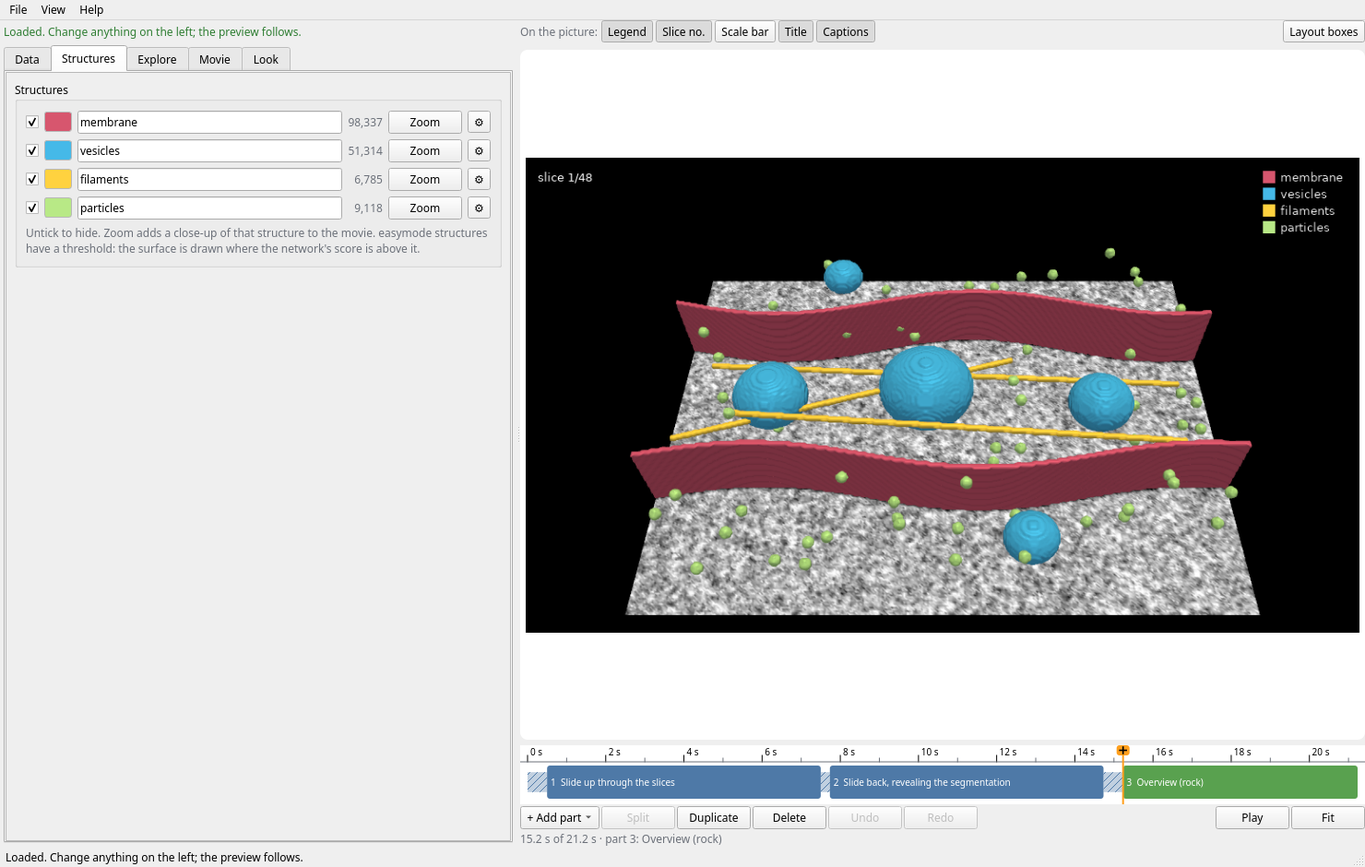
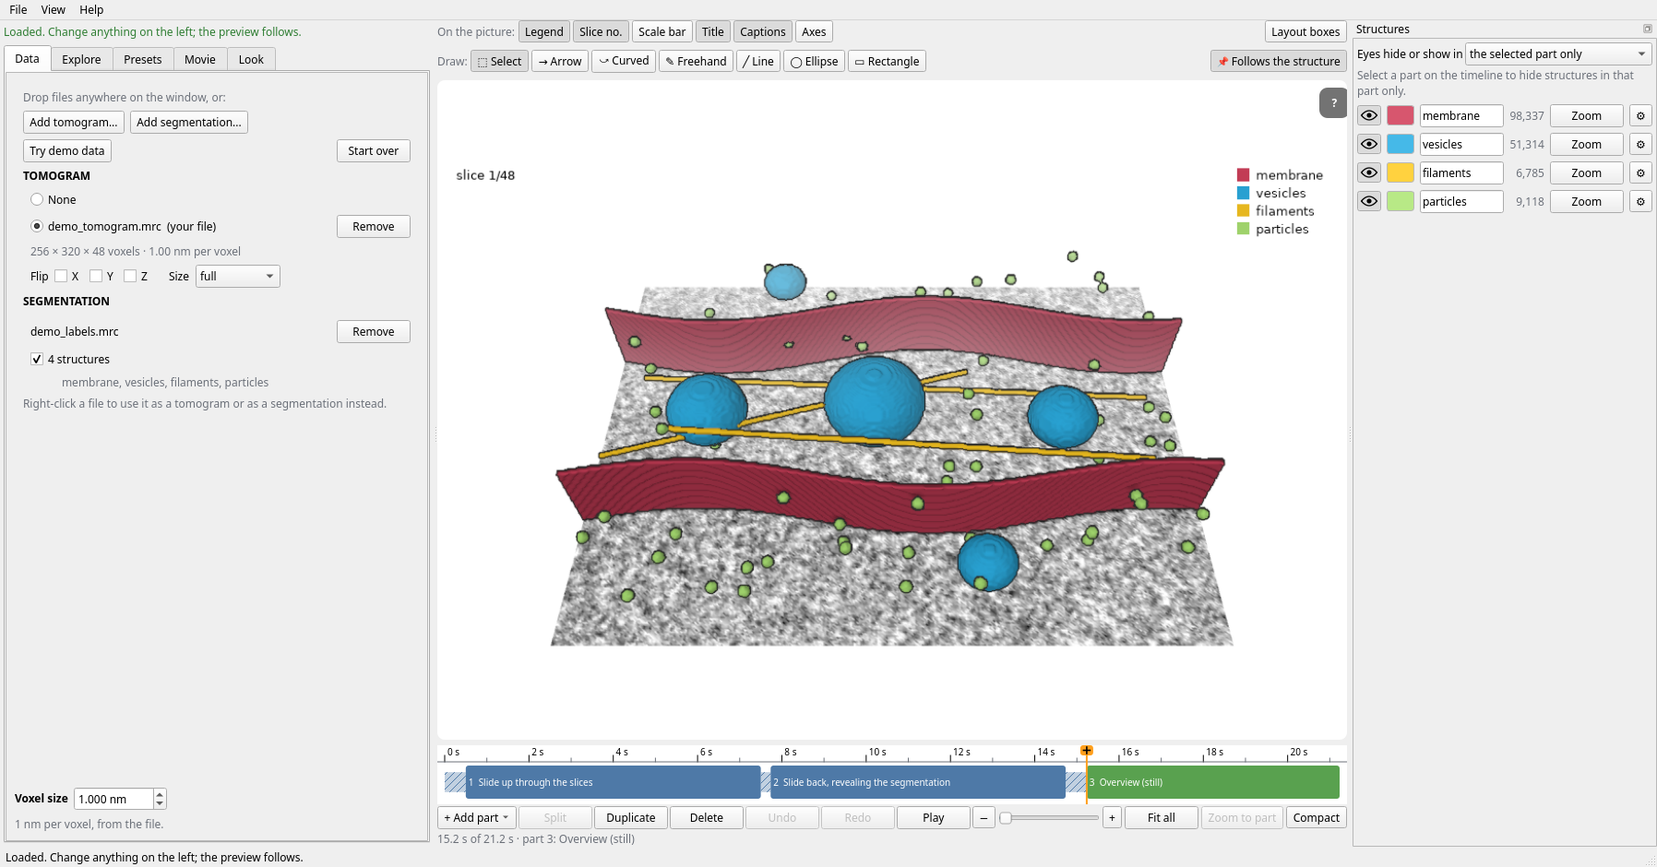
3.6.0: README, change log and screenshots for this release
Version 3.6.0. README: Structures panel with eyes, Size and surface cache, typed numbers, rotation axis and centre,
overview turn settings, Blur the background, calm paths and Edit from above, orientation arrows and coloured
caption box, drawing arrows, separate layer movies and merging, flat membranes (a model), Help > Performance.
New screenshots from the demo data (and a made-up bumpy membrane).

diff --git a/tomoreveal/common.py b/tomoreveal/common.py
@@ -1,7 +1,7 @@
 """Shared constants and small helpers."""
 
 
-__version__ = "3.5.0"
+__version__ = "3.6.0"
 
 
 ZMAGIC = b"\x28\xb5\x2f\xfd"

diff --git a/README.md b/README.md
@@ -12,7 +12,7 @@ TomoReveal reads these segmentations:
 
 The application is read-only for your data. It does not edit, rename or move tomograms, sessions or segmentations. It writes only the movies, in the folder that you select. It runs on your computer and does not send data to the internet.
 
-This is version 3.5.0. The [change log](CHANGELOG.md) lists the changes in each release.
+This is version 3.6.0. The [change log](CHANGELOG.md) lists the changes in each release.
 
 ## Supported platforms
 
@@ -137,7 +137,9 @@ Drop the files on the window, or use the buttons in the **Data** tab. You can dr
 
 TomoReveal recognises each dropped file by its content. To choose yourself, use **Add tomogram...** (the file is always used as the tomogram) or **Add segmentation...** (a session, a label volume or easymode files; never used as the tomogram). If a dropped file was recognised wrongly, right-click it in the Data tab and choose **Use as tomogram** or **Use as segmentation**.
 
-Large tomograms and sessions can take a minute to load. A line in the Data tab shows the progress.
+Large tomograms and sessions can take a minute to load. The line at the bottom says what is happening: each file with its size and time, then each surface ("building surfaces 3/15: Capsid"), and a note when a file is on a slow drive. Surfaces are kept on disk in TomoReveal's own folder (up to 5 GB, never next to your data), so opening the same data again is much faster.
+
+**Size: full / half / quarter** (Data tab) shows the tomogram and segmentation at half or a quarter size in each direction: about 8 or 64 times lighter and faster, for very large files. Arrows, frames, slice numbers and close-ups move along, and the choice is saved with the project.
 
 ### 2. Choose the tomogram and the segmentations
 
@@ -151,7 +153,7 @@ Large tomograms and sessions can take a minute to load. A line in the Data tab s
 
 Sometimes the image is changed during the import into Dragonfly: it is cropped, binned, or an axis is flipped. Then the tomogram file and the segmentation are not on the same grid. TomoReveal compares your file with Dragonfly's copy and finds the crop, the binning and the flips. It then puts your file on the grid of the segmentation. A line below the list tells you what it found, for example "cropped to x 60-767, y 150-1315, z 6-73". easymode files that were made from the original tomogram file are put on the Dragonfly grid in the same way. If the file is not the image that was imported, TomoReveal tells you and shows Dragonfly's copy.
 
-**SEGMENTATION** lists every multi-ROI and ROI of each session, and each label or easymode file, with a tick box. Next to each one you see how many structures it has and, in grey, their names, so that you can see what you switch on. You can switch on several at the same time; their structures are listed in groups in the Structures tab. For each session, TomoReveal switches on the one that looks like the final segmentation. Change it with one click if it chose wrongly.
+**SEGMENTATION** lists every multi-ROI and ROI of each session, and each label or easymode file, with a tick box. Next to each one you see how many structures it has and, in grey, their names, so that you can see what you switch on. You can switch on several at the same time; their structures are listed in groups in the Structures panel. For each session, TomoReveal switches on the one that looks like the final segmentation. Change it with one click if it chose wrongly.
 
 - A segmentation on another grid than the tomogram is greyed out, with the reason, for example "511 × 720 × 250 voxels, but the tomogram is 512 × 720 × 250".
 - The single-slice previews that Dragonfly's Segmentation Wizard leaves in a session, and Dragonfly's undo copies, are not listed. A grey line says how many were left out.
@@ -159,9 +161,9 @@ Sometimes the image is changed during the import into Dragonfly: it is cropped, 
 
 ### 3. Set the structures
 
-The **Structures** tab lists the structures with the names and colours that are saved in the Dragonfly session (or in the `.json` file next to a label volume). For each structure you can:
+The **Structures** panel on the right of the preview lists the structures with the names and colours that are saved in the Dragonfly session (or in the `.json` file next to a label volume). For each structure you can:
 
-- remove the tick to hide it.
+- click the **eye** to hide or show it. **Eyes hide or show in: the selected part only** (the default) hides it only in the part selected on the timeline: it fades out and back in at the part's edges, and an orange dot marks the eye. Switch to **the whole movie** to hide it everywhere. Right-click a structure in the preview ▸ **Hide … in this part** does the same.
 - click the coloured box to change the colour.
 - change the name. The legend uses this name.
 - click the **⚙** button to open the structure's settings:
@@ -170,11 +172,16 @@ The **Structures** tab lists the structures with the names and colours that are 
   - **Remove specks smaller than** a number of voxels: leaves out small separate bits of a noisy segmentation.
   - **Smoothing**: how round the surface is; 0 shows the raw voxel steps.
   - **Smoother surface**: off, a little, more or much takes away the bumps a segmentation leaves. **Flat sheet, even thickness** draws a membrane as a smooth sheet of the thickness measured in the segmentation (or one you type), with holes and breaks up to the **Fill gaps** size bridged. It is a model of the membrane, not the segmentation as it is: use the other levels to show what was segmented. **Flatness: less** keeps membranes that run 2 to 4 voxels apart as two sheets.
+  - **Detail**: full, or half (about 4 times fewer triangles, so large structures draw much faster).
   - **Style**: Normal, Cartoon (flat colour with dark outlines), Dots, or Glossy (shiny, metallic or glass). **Apply to all** gives every structure this style.
 
 **All structures** in the Look tab fades every structure together, for a "ghost" look.
 
-Structures that are hidden in Dragonfly, and the background, are listed in grey with the tick removed. Tick them to show them anyway. A structure that has no name in the session is shown as "label 3 (no name in the session)".
+![Filaments hidden in the overview only](docs/images/22-structures-panel.png)
+
+![A bumpy membrane with holes: as segmented, "much", and a flat sheet](docs/images/26-flat-membrane.png)
+
+Structures that are hidden in Dragonfly, and the background, are listed in grey with the eye closed. Click the eye to show them anyway. A structure that has no name in the session is shown as "label 3 (no name in the session)".
 
 ### Look through the slices
 
@@ -186,7 +193,7 @@ The **Explore** tab is for looking at the data slice by slice. It does not chang
 - **2D slice** shows the slice flat, with the segmentation filled, as outlines, or off. **Overlay opacity** sets how strongly the colours cover the slice. Ctrl + mouse wheel zooms, dragging moves the image, and a double-click shows the whole slice again.
 - **3D at this slice** shows the 3D view with the slice at this position, and the structures above the slice, all structures, or none.
 - The line below the image shows the slice number, the depth in nm, and under the mouse the position, the grey value and the name of the structure.
-- Colours and which structures are shown come from the Structures tab. The clip box is drawn as a dashed rectangle, and slices outside the movie's slice range are dimmed.
+- Colours and which structures are shown come from the Structures panel. The clip box is drawn as a dashed rectangle, and slices outside the movie's slice range are dimmed.
 
 Three buttons pass what you found to the movie: **Start the slice sweep here**, **End the slice sweep here**, and **Add a close-up of** the structure under the mouse.
 
@@ -206,6 +213,8 @@ In the **Movie** tab, set the **main view**: click a view button, or use the **T
 | + and −, F, Home | Zoom in and out, fit everything, back to the main view |
 | 1, 3, 7 | Front, side, top view |
 
+Every bar has a number box beside it: type 30 for Tilt and press Enter (Esc cancels, the arrow keys step, Shift ten at a time). Right-click a structure ▸ **Rotate around this** makes it the centre of the turns; **View ▸ Show rotation axis** draws the axis in the preview (never in the movie).
+
 The **?** in the corner of the preview lists these. **View ▸ Moving around in the preview** can swap the left and right buttons or turn the mouse wheel the other way.
 
 ### 5. Clip the tomogram
@@ -214,7 +223,7 @@ Use **Clip** to keep only a part of the tomogram, as with the clip box in Dragon
 
 ![Clip bars keep only a part of the tomogram](docs/images/03-clip.png)
 
-**Fit the view to the kept part** moves the camera closer. Remove the tick to keep the camera where it is. **Reset** shows the full tomogram again.
+Each bar also has **from** and **to** boxes: type a slice number, or a length such as "120 nm". **Fit the view to the kept part** moves the camera closer. Remove the tick to keep the camera where it is. **Reset** shows the full tomogram again.
 
 ### 6. Build the movie on the timeline
 
@@ -270,13 +279,13 @@ The **Movie** tab lists the same parts, one line each. Click a line to open its 
 | Part | Settings |
 |---|---|
 | Slide | From (first slice, last slice, where the slice is, a slice number), To, Structures (hidden, above the slice, all, leave as they are), Pause before, Pause after |
-| Overview | Camera movement (rock, full spin, still), Rock angle, View (main view or own view) |
+| Overview | Camera movement (rock, full spin, still), Rock angle, **Turn around** (Z, X, Y, or the screen's up-down line), **Centre of the turn** (the middle of what is shown, so a clipped tomogram turns around itself), **Keep the size steady**, **Start gently**, View (main view or own view) |
 | Close-up | Structure and Object (or Objects in focus), Other structures (colour and opacity), Camera movement (orbit, rock, wiggle, still), Camera push-in, Highlight, Object effect, Zoom, Tilt, Vignette |
 | Hold | only the common settings |
 | Card | Background, text and picture blocks, Fades (see [Title and end cards](#9-title-and-end-cards)) |
 | Camera path | What the camera follows, or its points; Camera, Looks, Other structures (see [Camera paths](#camera-paths)) |
 
-Every part also has **On the picture**: show or hide the legend, slice number and scale bar during this part only.
+Each line has a stripe in its part's timeline colour (blue slides, green overviews, red close-ups, purple cards, orange camera paths, grey holds). Every part also has **On the picture**: show or hide the legend, slice number and scale bar during this part only.
 
 **Transitions.** Each part's settings end with "Transition from part 3 to part 4":
 
@@ -293,7 +302,7 @@ Slides, spins and orbits also have **Slow down at the end**.
 
 #### Close-ups
 
-- Click **Zoom** next to a structure in the Structures tab, or use **+ Add part > Close-up of**, to add a close-up of all of that structure.
+- Click **Zoom** next to a structure in the Structures panel, or use **+ Add part > Close-up of**, to add a close-up of all of that structure.
 - Click **+ Click a structure in the preview** (or choose "an object I click in the preview"), then click one object (one vesicle, one filament) to add a close-up of that object only.
 - To change what a close-up shows, open it and choose another **Structure** or **Object** from the lists. The caption follows the structure unless you typed your own.
 - A close-up of a structure that you switched off in the Data tab stays in the list, marked "structure not loaded", and is left out of the movie until the structure is back.
@@ -301,7 +310,8 @@ Slides, spins and orbits also have **Slow down at the end**.
 - **A close-up of a frame you draw**: **Frame a region...** in a close-up's settings (or **+ Add part > Close-up of > a region I draw in the preview**), then drag a frame over the preview: the close-up shows only what is inside it, for example where two objects touch.
 - **Other structures**: grey, darker, unchanged colour, or **hidden**, and their opacity.
 - New close-ups look from the top (Tilt 0°). **Keep zoom steady** keeps the camera at one distance, so the object does not grow and shrink while the camera moves.
-- **Vignette**: darker edges around the objects in focus, as set in the Look tab or for this close-up only, with an optional **blur** of what is nearer or further away.
+- **Blur the background**: as in the Look tab, off, light, medium or strong. The objects in focus stay sharp; what is nearer or further away is blurred. While the preview plays, it shows the light level.
+- **Vignette**: darker edges around the objects in focus, as set in the Look tab or for this close-up only.
 
 #### Close-up animations
 
@@ -328,6 +338,12 @@ They can be combined:
 For both: **Camera** sets the distance and the side the camera looks from, **Looks** whether it looks at the path or a little ahead and whether it moves at even speed or slows down at the ends. The path is drawn in the preview while the part is selected, never in the movie.
 
 **Following a structure calmly**: **Steadiness** chooses close (follows the bends), steady (the default) or very steady, with a slider for fine control. The camera glides on a smoothed rail at a constant height, keeps the picture upright and turns at most 20° per second. **Edit as points** turns the path into a path through points you can adjust.
+
+**Calm ends**: the flights into and out of a camera path take as long as a gentle turn needs (**Ends ▸ calm flights in and out**, on for new paths), and **hold at start / at end** keeps the camera still at the first and last point. Projects with paths from older versions offer once to make them smoother (Undo brings the old path back).
+
+**Edit from above** (a path through points) looks straight down on the tomogram while you lay out the path: click to add points at the **height** you chose (or on what you click), drag them, or **Draw the path** with the mouse (about one point every 30 pixels). A strip under the preview shows each point's height; drag a point up or down there. Your view is back as it was when you switch it off or press Esc. **Play path** flies it.
+
+![Laying out a camera path from above](docs/images/25-edit-from-above.png)
 
 **The path editor** (a path through points, while its part is selected):
 
@@ -357,13 +373,16 @@ The change happens at the start of the part, over the **fade** time (0.5 s unles
 
 ### 8. On the picture: legend, slice number, scale bar
 
-The Look tab group **On the picture**, and the buttons above the preview, switch the **legend**, the **slice number**, the **scale bar**, the **title** and the **captions** on or off. Each part can override this for itself (Movie tab, **On the picture**).
+The Look tab group **On the picture**, and the buttons above the preview, switch the **legend**, the **slice number**, the **scale bar**, the **title**, the **captions** and the **orientation arrows** (X red, Y green, Z blue; **Axes**) on or off. The orientation arrows turn with the camera; they show in the preview only, unless you tick **also in the movie**, and you can give them your own labels. Captions can have a **coloured box** in any colour. Each part can override this for itself (Movie tab, **On the picture**).
 
 - **Move** an item by dragging it in the preview; drag its corner handle to make it bigger or smaller (hold Shift for steps of 0.1). It snaps to the edges and the centre lines. Right-click an item for Hide, Reset position, Bigger, Smaller, and, for the legend, one or two columns and the box. **Layout boxes** shows all items, also hidden ones, as dashed boxes.
+- The legend keeps one size for the whole movie (new projects): in a close-up the rows of the other structures fade instead of leaving.
 - The positions are kept as fractions of the picture, so they stay in place at every quality (Draft, HD, 4K, square, portrait).
 - **Scale bar**: its length comes from the voxel size of the data, shown in the Data tab. Many files say 1 Å or 0 by mistake; then the Data tab warns you, and you can type the real voxel size there. With **automatic length**, a round number (1, 2 or 5 × 10ⁿ nm) is chosen for each part. **Flat on the picture**, the bar is exact at the centre of the view (switch on Orthographic view for an exact bar everywhere); **lying on the slice**, it is exact in every view.
 
 ![Moving the legend; the scale bar](docs/images/11-overlays.png)
+
+![Orientation arrows and a caption in a coloured box](docs/images/24-orientation.png)
 
 ### Arrows and text
 
@@ -371,11 +390,15 @@ In the Look tab, **Arrows and text** lists them:
 
 - **+ Add arrow**, then click the spot the arrow should point to (or right-click in the preview ▸ **Add arrow here**). The tip stays on that spot while the camera moves. The label is the structure's name; type over it.
 - **+ Add text** adds a text box; drag it into place.
-- In the preview: drag an arrow's tail to turn it or make it longer, and drag its tip to another spot. Right-click an arrow or a text box for its shape (arrow, thin arrow, pointer, ring, bracket), box, colour, Duplicate, Copy to another part, Delete, and **Make all arrows look like this one**. Ctrl + click selects several; with several text boxes, **Align** lines them up.
-- Each item has its own **from** and **to** time in its part (**⏵** and **⏹** take the playhead). It fades in, grows or pops. Its bar on the timeline can be dragged.
+- **Draw** them: the **Draw** toolbar above the preview has **Arrow** (press at the tail, drag, let go where it points; Shift for steps of 15°), **Curved** (then drag the yellow handle to bend it), **Freehand** (draw it as with a pen), **Line**, **Ellipse** and **Rectangle** (Shift: circle or square). **Follows the structure / Stays on the picture** decides whether the tip is pinned to the structure under it (it then follows that spot when the camera moves) or stays where it is on the picture; with arrows selected, it switches them.
+- In the preview: drag an arrow's tail to turn it or make it longer, and drag its tip to another spot: a crosshair shows where it goes and what it will be pinned to; over empty space the arrow stays there on the picture. Right-click ▸ **Move tip...** then click where it should point. Right-click an arrow or a text box for its shape (arrow, thin arrow, pointer, ring, bracket), box, colour, Duplicate, Copy to another part, Delete, and **Make all arrows look like this one**. Ctrl + click selects several; with several text boxes, **Align** lines them up.
+- Lines and curves can have arrowheads at the end, the start, both or none (right-click ▸ **Arrowheads**).
+- Each item has its own **from** and **to** time in its part (**⏵** and **⏹** take the playhead). It fades in, grows, pops, or **draws itself on**. Its bar on the timeline can be dragged.
 - Arrows hide while their structure is switched off, not yet revealed by the slide, outside the clip box, or out of the picture. Labels never cover each other.
 
 ![Two arrows with labels](docs/images/20-arrows.png)
+
+![Drawn arrows and shapes; the selected curve shows its handles](docs/images/23-draw.png)
 
 ### 9. Title and end cards
 
@@ -394,8 +417,8 @@ In the Look tab:
   - **Illustration**: thick black outlines.
   - **On the tomogram**: the structures over the grey slice.
 
-  You can then change **Soft shadows** (strength and reach; they are part of the surfaces, so they never flicker in movies), **Outlines** (thin, medium, thick; dark, black or a darker shade; also between touching structures), **See-through membranes** (which structures count as membranes: **Treat as membrane** in the Structures tab), **Depth fade**, **Richer colours on white backgrounds** and **Matte lighting**. The look then shows "Custom". **Background** offers black, white, light grey, dark grey, a gradient, or the tomogram slice.
-- **Opacity** of a structure (Structures tab) makes it see-through, and its outline fades with it.
+  You can then change **Soft shadows** (strength and reach; they are part of the surfaces, so they never flicker in movies), **Outlines** (thin, medium, thick; dark, black or a darker shade; also between touching structures), **See-through membranes** (which structures count as membranes: **Treat as membrane** in the Structures panel), **Depth fade**, **Richer colours on white backgrounds** and **Matte lighting**. The look then shows "Custom". **Background** offers black, white, light grey, dark grey, a gradient, or the tomogram slice.
+- **Opacity** of a structure (Structures panel) makes it see-through, and its outline fades with it.
 
 ![The five looks](docs/images/21-looks.png)
 
@@ -413,6 +436,7 @@ At the end of the **Movie** tab, select the quality, the name and the folder.
 - **File size**: Balanced, Larger (best quality) or Smaller (about a quarter smaller at nearly the same quality). The resolution never changes.
 - **Codec**: H.264 plays everywhere. **H.265** gives about half the file size at the same quality; it plays on recent Macs, iPhones and in VLC, but Windows may need the HEVC extension and some PowerPoint versions cannot play it. Check before a talk.
 - Transparent backgrounds work in Keynote, Final Cut, Premiere and DaVinci Resolve. Check your presentation program before relying on it.
+- **Arrows and text: as separate transparent movies** writes the movie with the 3D picture only, plus `name_arrows.mov` (arrows, text and shapes) and `name_labels.mov` (legend, scale bar, captions, title, slice number): transparent ProRes 4444 of the same length, listed in `name_layers.json`. Lay them over the movie in a video editor, or use **File ▸ Merge layer movies** (or **Merge layers...**) to put them back together into `name_merged.mp4` with the layers you tick, without drawing anything again. Right-click an arrow ▸ **Separate layer movie** puts it on the other layer.
 - **Frame rate** 60 frames/s gives smoother motion (files about 1.6 times larger, rendering twice as long). **Motion blur** blurs fast-moving detail a little, as a camera would; it renders 4 pictures per frame, so it is used for the movie only.
 - The **estimated file sizes** for every quality and ticked format appear under these choices a few seconds after you stop changing settings. They come from a few frames of your movie; "rough" ones are scaled from HD.
 
@@ -495,6 +519,10 @@ conda activate tomoreveal
 python -m pip install --no-deps -e .
 python -m tomoreveal
 ~~~
+
+### The window is slow
+
+**Help ▸ Performance** shows whether your graphics card draws the pictures, the memory used, the graphics card's load, and where the time of one movie frame goes (`tomoreveal --diagnose` prints the same). For very large data, use **Size: half** in the Data tab and **Detail: half** for large structures. If drawing with the graphics card fails, TomoReveal tries it once more, and asks before it switches to software drawing for the session.
 
 ### The preview is black, or the application reports a graphics problem
 

diff --git a/CHANGELOG.md b/CHANGELOG.md
@@ -1,11 +1,13 @@
 # Change log
 
-## 3.6.0 (in progress)
+## 3.6.0 (2026-11-26)
+
+What older projects notice: only one fix changes how an older project plays: a spin around X or Y right after a top view no longer swings the picture round first (reported as "the transition rotates the tomogram again" and "the full spin breaks after I rotate"). Older camera paths play as before unless you accept the one-time offer to make them smoother. Everything else new is a setting that older projects do not have, so their movies stay the same; the test movies (golden plan and frames) did not need to be made again.
 
 - **Opening a file again is much faster.** Surfaces are kept on disk (in TomoReveal's own folder, up to 5 GB, never next to your data): a 1.5 GB Dragonfly session opened in 6 s the second time instead of 30 s.
 - **Less memory:** a tomogram stays in its own data type (8- or 16-bit) instead of being turned into 32-bit numbers, and counting the structures no longer makes large temporary copies.
 - **Data tab ▸ Size: full / half / quarter** ("Open smaller"): shows the tomogram and segmentation at half or a quarter size in each direction, about 8 or 64 times lighter and faster. Arrows, frames, slice numbers and close-ups move along; saved with the project. Large volumes suggest it.
-- **Detail per structure:** Structures tab ▸ ⚙ ▸ **Detail: full / half**. Half has about 4 times fewer triangles; on a large segmentation it halved the time of a Soft frame.
+- **Detail per structure:** Structures panel ▸ ⚙ ▸ **Detail: full / half**. Half has about 4 times fewer triangles; on a large segmentation it halved the time of a Soft frame.
 - **Help ▸ Performance** (and `tomoreveal --diagnose`): whether your graphics card draws the pictures, the memory used, the graphics card's load, and where the time of one movie frame goes, with a hint when there are very many triangles.
 - **Loading tells you what it is doing:** each file with its size and time, each surface ("building surfaces 3/15: Capsid"), and a note when a file is on a slow drive.
 - **No silent switch to software drawing.** After a drawing error the graphics card is tried once more with a fresh window; only then are you asked whether to draw on the processor for this session. The error is written to the log.
